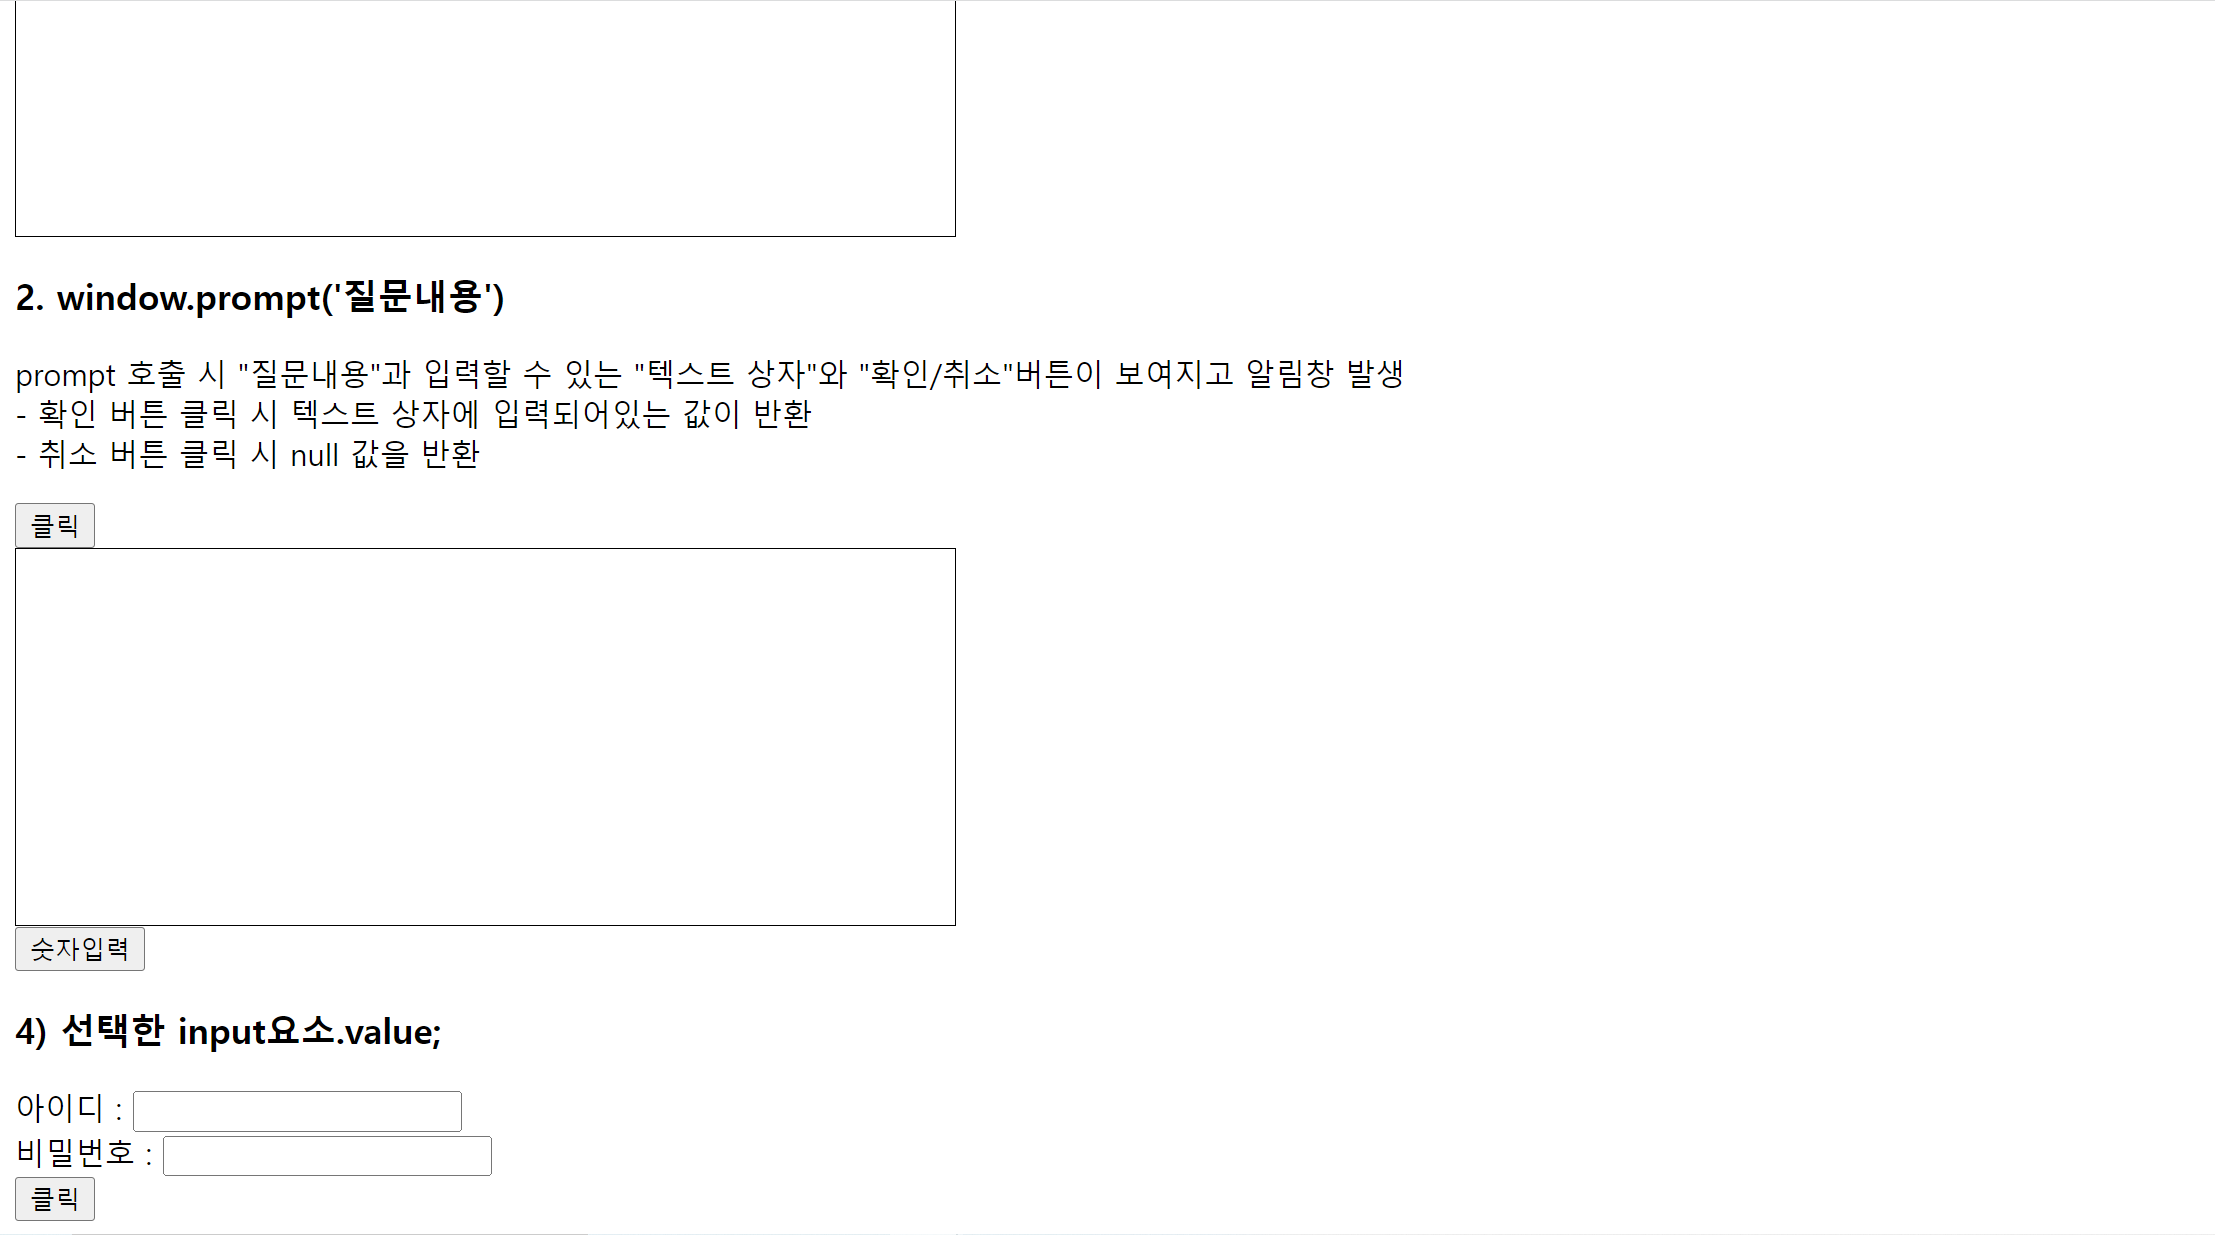
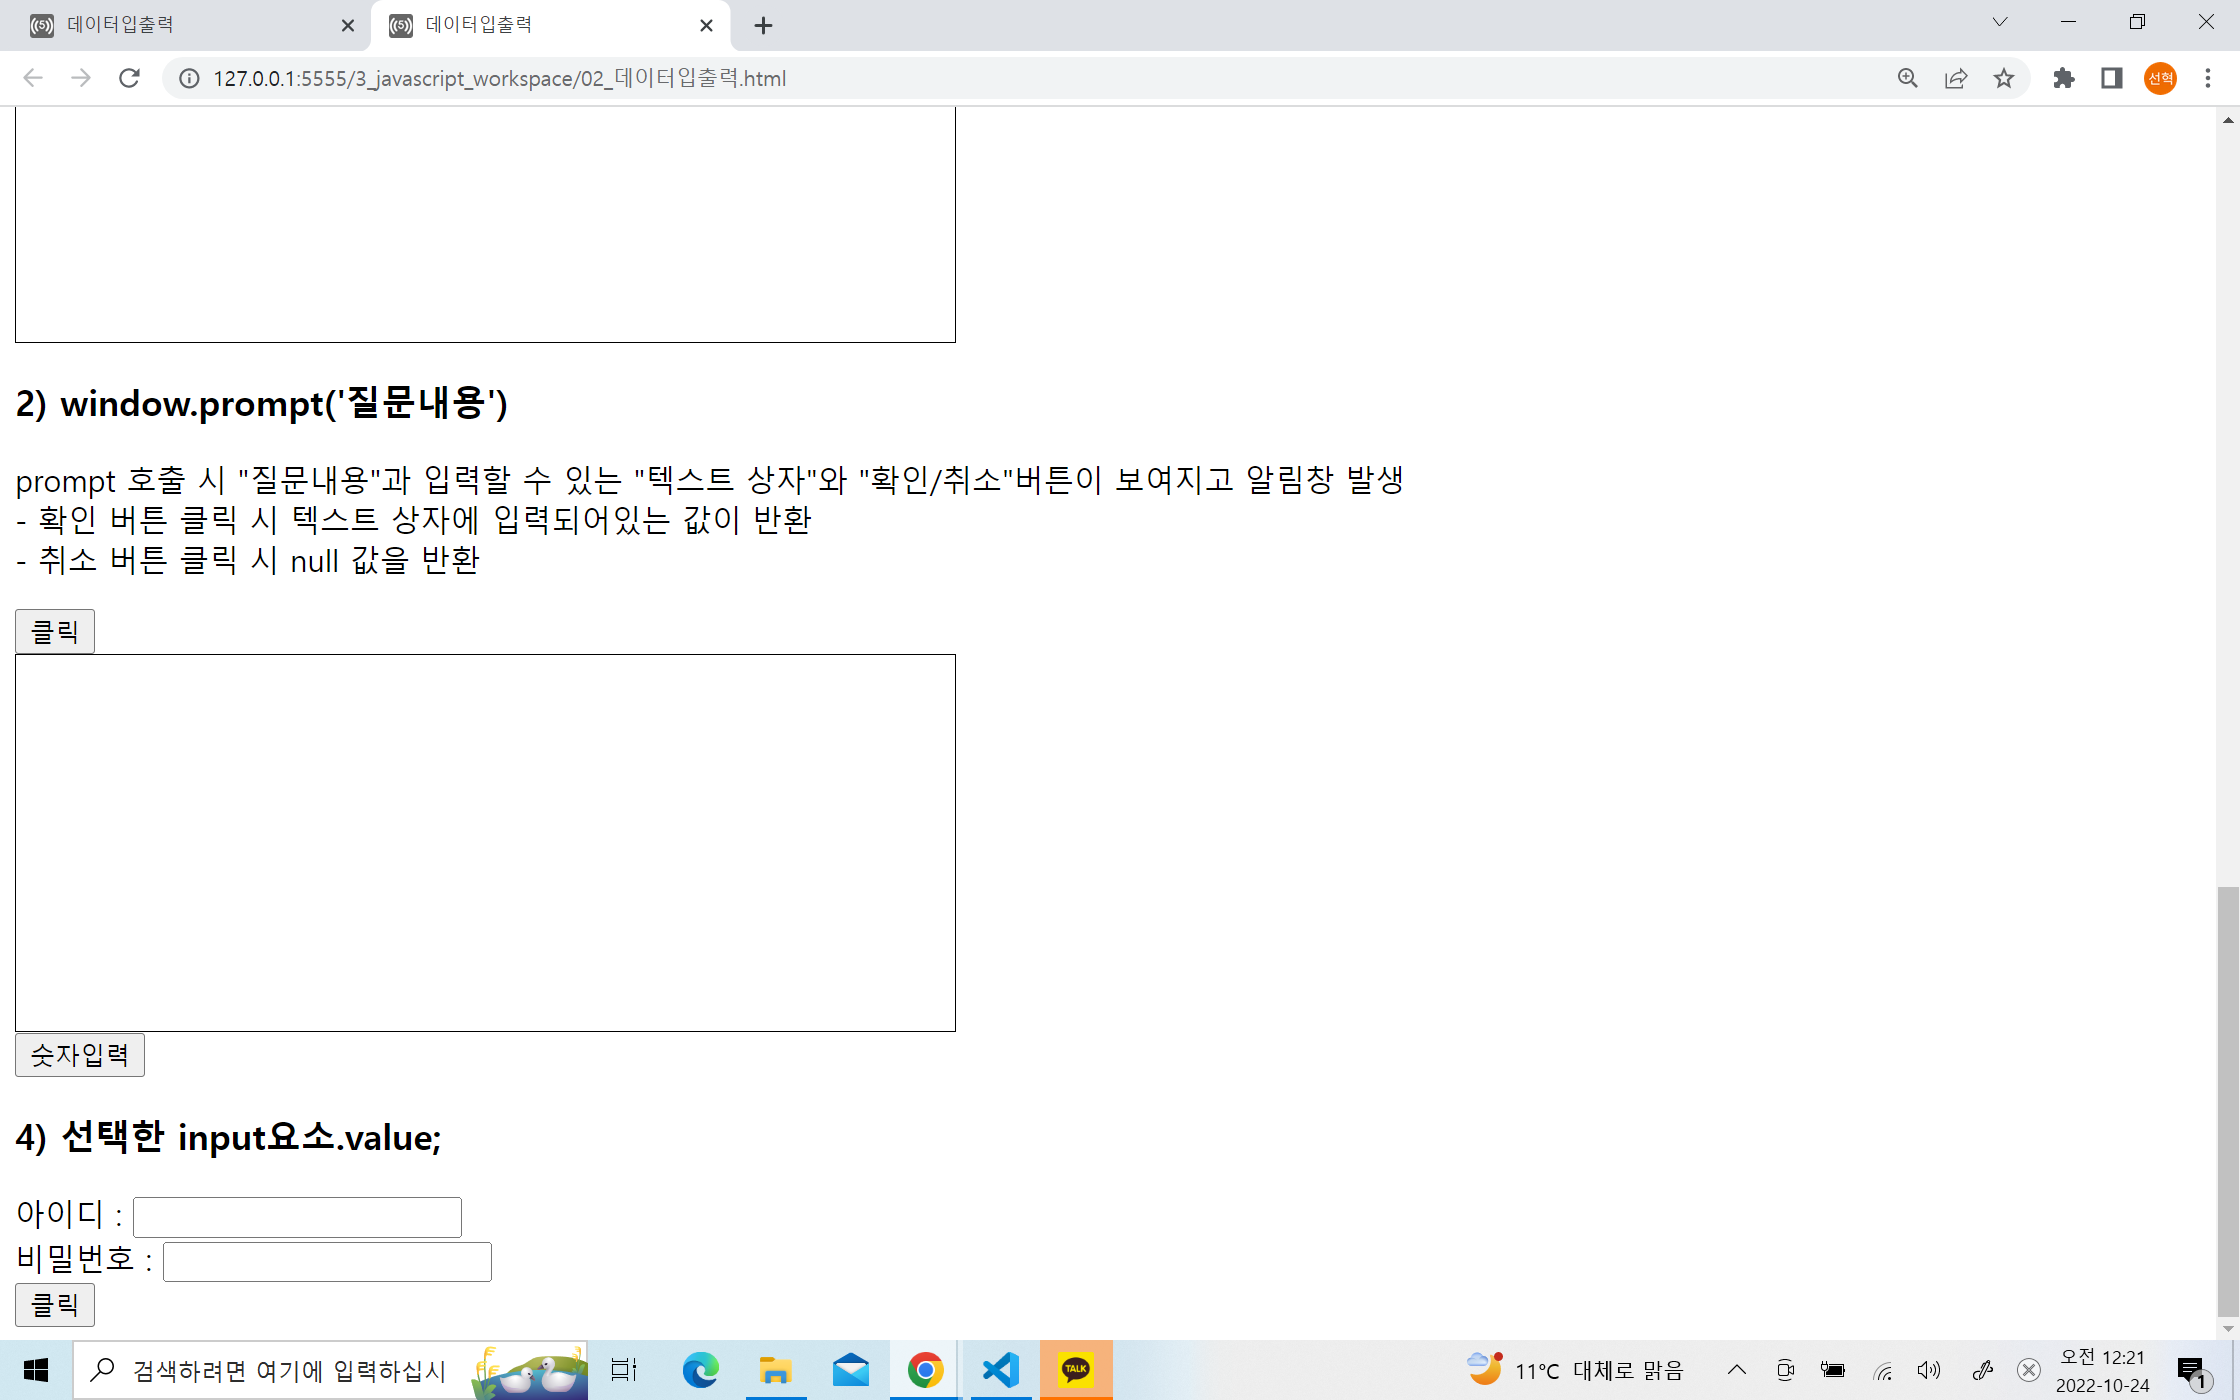
오타 수정

diff --git a/3_javascript_workspace/02_데이터입출력.html b/3_javascript_workspace/02_데이터입출력.html
@@ -143,7 +143,7 @@
     }
 </script>
 
-    <h3>2. window.prompt('질문내용')</h3>
+    <h3>2) window.prompt('질문내용')</h3>
 
     <p>
         prompt 호출 시 "질문내용"과 입력할 수 있는 "텍스트 상자"와 "확인/취소"버튼이 보여지고 알림창 발생 <br>
